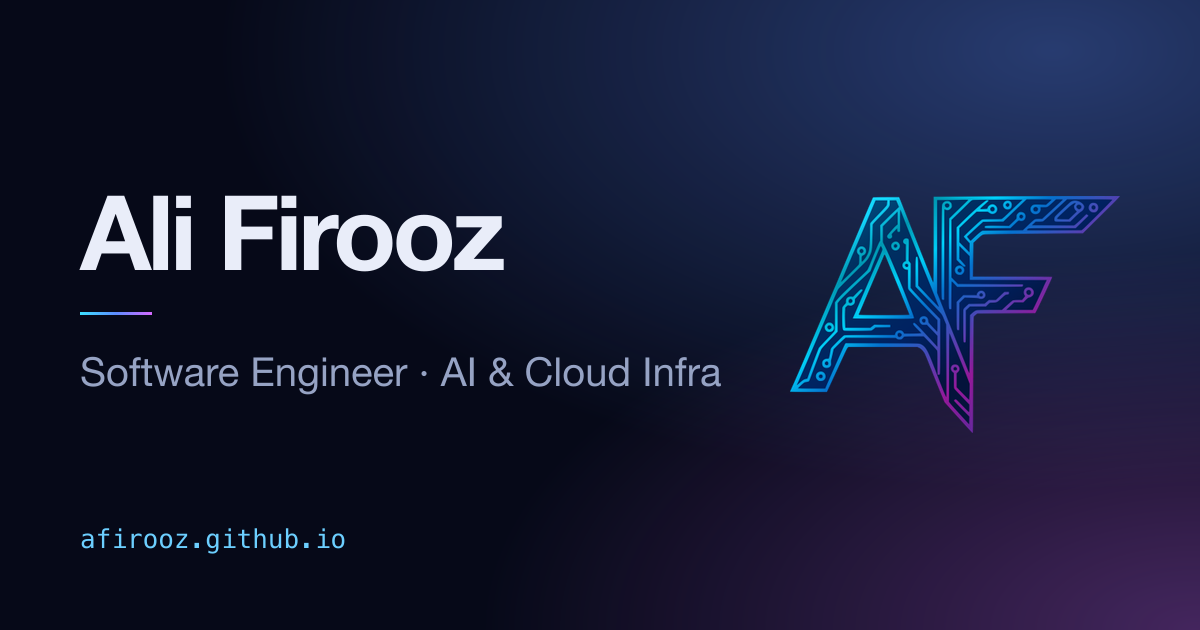
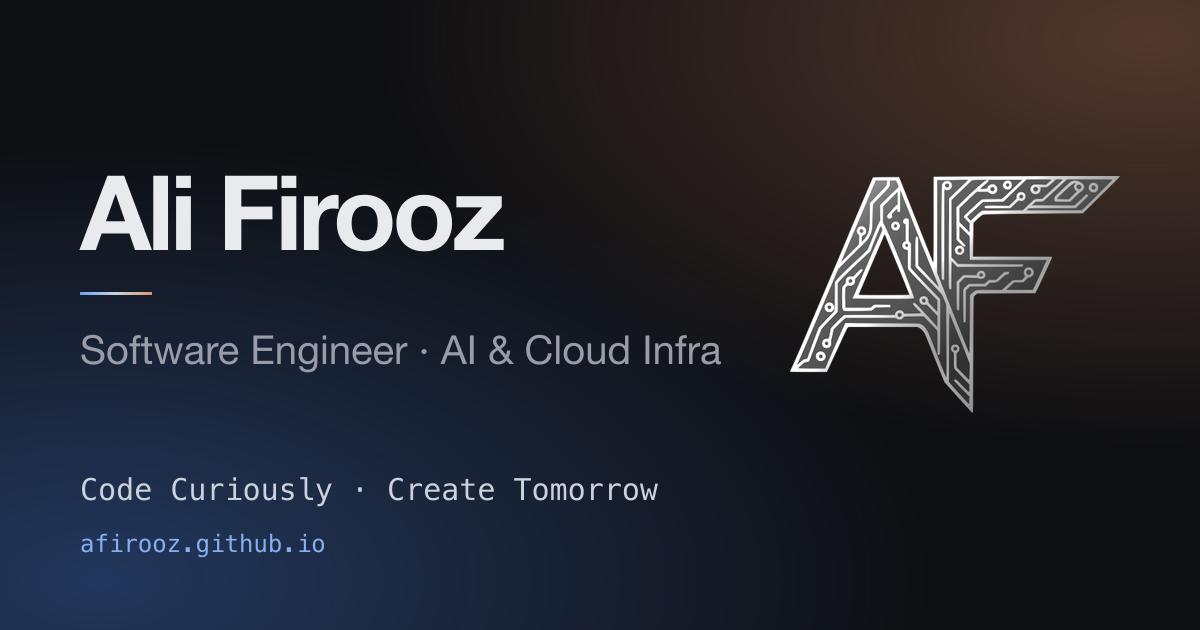
new color design

diff --git a/src/styles/global.css b/src/styles/global.css
@@ -2,19 +2,20 @@
 :root {
   color-scheme: light dark;
 
-  --bg: light-dark(#f5f6fb, #060918);
-  --surface: light-dark(#ffffff, #0c1229);
-  --line: light-dark(#dde2ee, #1c2646);
-  --text: light-dark(#0b1124, #e9edf9);
-  --muted: light-dark(#525d78, #96a3c4);
-  --accent: light-dark(#1d4ed8, #6ccfff);
-  /* Logo gradient: cyan -> blue -> magenta */
-  --g1: light-dark(#0e7490, #3be0ff);
-  --g2: light-dark(#1d4ed8, #5d8dff);
-  --g3: light-dark(#a21caf, #d569ff);
+  /* Charcoal, steel blue and copper, taken from the AF banner artwork */
+  --bg: light-dark(#f4f4f1, #0e0f12);
+  --surface: light-dark(#ffffff, #16171c);
+  --line: light-dark(#deded9, #282a31);
+  --text: light-dark(#121316, #e9eaed);
+  --muted: light-dark(#5a5c66, #9a9ca7);
+  --accent: light-dark(#2456c4, #86b0f0);
+  /* Brand gradient: steel blue -> silver -> copper */
+  --g1: light-dark(#2456c4, #6fa3ef);
+  --g2: light-dark(#5d6676, #cbd2dc);
+  --g3: light-dark(#b05a34, #dc9872);
   --grad: linear-gradient(100deg, var(--g1), var(--g2) 50%, var(--g3));
   /* Same gradient, dark enough for white text in both themes */
-  --grad-solid: linear-gradient(135deg, #0e7490, #1d4ed8 55%, #a21caf);
+  --grad-solid: linear-gradient(135deg, #2456c4, #5d6676 55%, #b05a34);
 
   --font-sans: 'Geist Variable', system-ui, -apple-system, 'Segoe UI', sans-serif;
   --font-mono: 'Geist Mono Variable', ui-monospace, 'SF Mono', Menlo, monospace;
@@ -92,7 +93,7 @@ strong {
   border-radius: 4px;
 }
 ::selection {
-  background: color-mix(in srgb, var(--g2) 35%, transparent);
+  background: color-mix(in srgb, var(--g1) 35%, transparent);
 }
 
 .wrap {
@@ -177,6 +178,16 @@ kbd {
 .brand img {
   height: 26px;
   width: auto;
+  /* The logo file is cyan/magenta; render it as brushed metal like the banner. */
+  filter: grayscale(1) brightness(1.75) contrast(1.1);
+}
+:root[data-theme='light'] .brand img {
+  filter: grayscale(1) brightness(0.6) contrast(1.1);
+}
+@media (prefers-color-scheme: light) {
+  :root:not([data-theme]) .brand img {
+    filter: grayscale(1) brightness(0.6) contrast(1.1);
+  }
 }
 .nav {
   display: flex;
@@ -344,6 +355,23 @@ kbd {
   }
 }
 
+.motto {
+  display: flex;
+  align-items: center;
+  gap: 12px;
+  margin-bottom: 18px;
+  font-family: var(--font-mono);
+  font-size: 0.86rem;
+  letter-spacing: 0.06em;
+  color: var(--muted);
+}
+.motto::before {
+  content: '';
+  flex: none;
+  width: 28px;
+  height: 1px;
+  background: var(--grad);
+}
 .hero h1 {
   font-weight: inherit;
   font-size: inherit;
@@ -380,7 +408,7 @@ kbd {
   margin-left: 5px;
   vertical-align: -0.08em;
   border-radius: 2px;
-  background: var(--g2);
+  background: var(--g3);
   animation: blink 1.1s steps(1) infinite;
 }
 @keyframes blink {
@@ -473,7 +501,7 @@ kbd {
 }
 .btn-primary:hover {
   border-color: transparent;
-  background: color-mix(in srgb, var(--text) 88%, var(--g2));
+  background: color-mix(in srgb, var(--text) 88%, var(--g1));
 }
 .btn .i-check,
 .btn.is-copied .i-copy {
@@ -612,7 +640,7 @@ kbd {
   z-index: 0;
   background: radial-gradient(
     380px circle at var(--mx, -999px) var(--my, -999px),
-    color-mix(in srgb, var(--g2) 15%, transparent),
+    color-mix(in srgb, var(--g1) 15%, transparent),
     transparent 65%
   );
   opacity: 0;
@@ -750,7 +778,7 @@ kbd {
   top: 0.72em;
   width: 6px;
   height: 1.5px;
-  background: var(--g2);
+  background: var(--g1);
 }
 .highlights {
   display: grid;
@@ -894,7 +922,7 @@ kbd {
   height: 11px;
   border-radius: 50%;
   background: var(--bg);
-  border: 2px solid var(--g2);
+  border: 2px solid var(--g1);
 }
 .entry-top {
   display: flex;
@@ -1132,14 +1160,14 @@ kbd {
   font-size: 0.92rem;
   font-weight: 500;
   cursor: pointer;
-  box-shadow: 0 12px 40px -12px color-mix(in srgb, var(--g2) 70%, transparent);
+  box-shadow: 0 12px 40px -12px color-mix(in srgb, var(--g1) 70%, transparent);
   transition:
     transform 0.15s,
     border-color 0.15s;
 }
 .term-fab:hover {
   transform: translateY(-2px);
-  border-color: var(--g2);
+  border-color: var(--g1);
 }
 .term-fab svg {
   width: 18px;
@@ -1332,7 +1360,7 @@ html:not(.js) [data-term-open] {
 }
 .term-chips button:hover {
   color: var(--text);
-  border-color: var(--g2);
+  border-color: var(--g1);
 }
 .term-form {
   display: flex;
@@ -1528,6 +1556,7 @@ html:not(.js) [data-term-open] {
   .now,
   .hero h1,
   .site-footer,
+  .motto,
   .contact,
   .term-fab,
   .term,

diff --git a/src/data/resume.ts b/src/data/resume.ts
@@ -6,6 +6,7 @@ export const profile = {
   name: 'Ali Firooz',
   role: 'Software Engineer',
   focus: 'AI & Cloud Infra',
+  motto: ['Code Curiously', 'Create Tomorrow'],
   degrees: 'Computer Science, MS · Chemical Engineering, MS',
   // Rotating words after "I build" in the hero. Keep each under ~23 characters.
   builds: [

diff --git a/src/scripts/terminal.ts b/src/scripts/terminal.ts
@@ -89,6 +89,7 @@ if (panel && out && form && input) {
         print(plain(profile.tagline));
         summary.forEach(item);
         dim(`${profile.location} · ${profile.availability} · ${profile.degrees}`);
+        dim(profile.motto.join(' · '));
       },
     },
     experience: {

diff --git a/README.md b/README.md
@@ -49,4 +49,4 @@ The repository's Pages source must be set to **GitHub Actions** (Settings → Pa
 ## Profile picture
 
 `src/assets/avatar.png` is `src/assets/portrait.jpg` with the background removed (macOS Vision subject mask) and
-replaced by the logo gradient. To use a different photo, replace `avatar.png` with any square image.
+replaced by a charcoal backdrop with blue and copper glows, matching the LinkedIn banner. To use a different photo, replace `avatar.png` with any square image.
